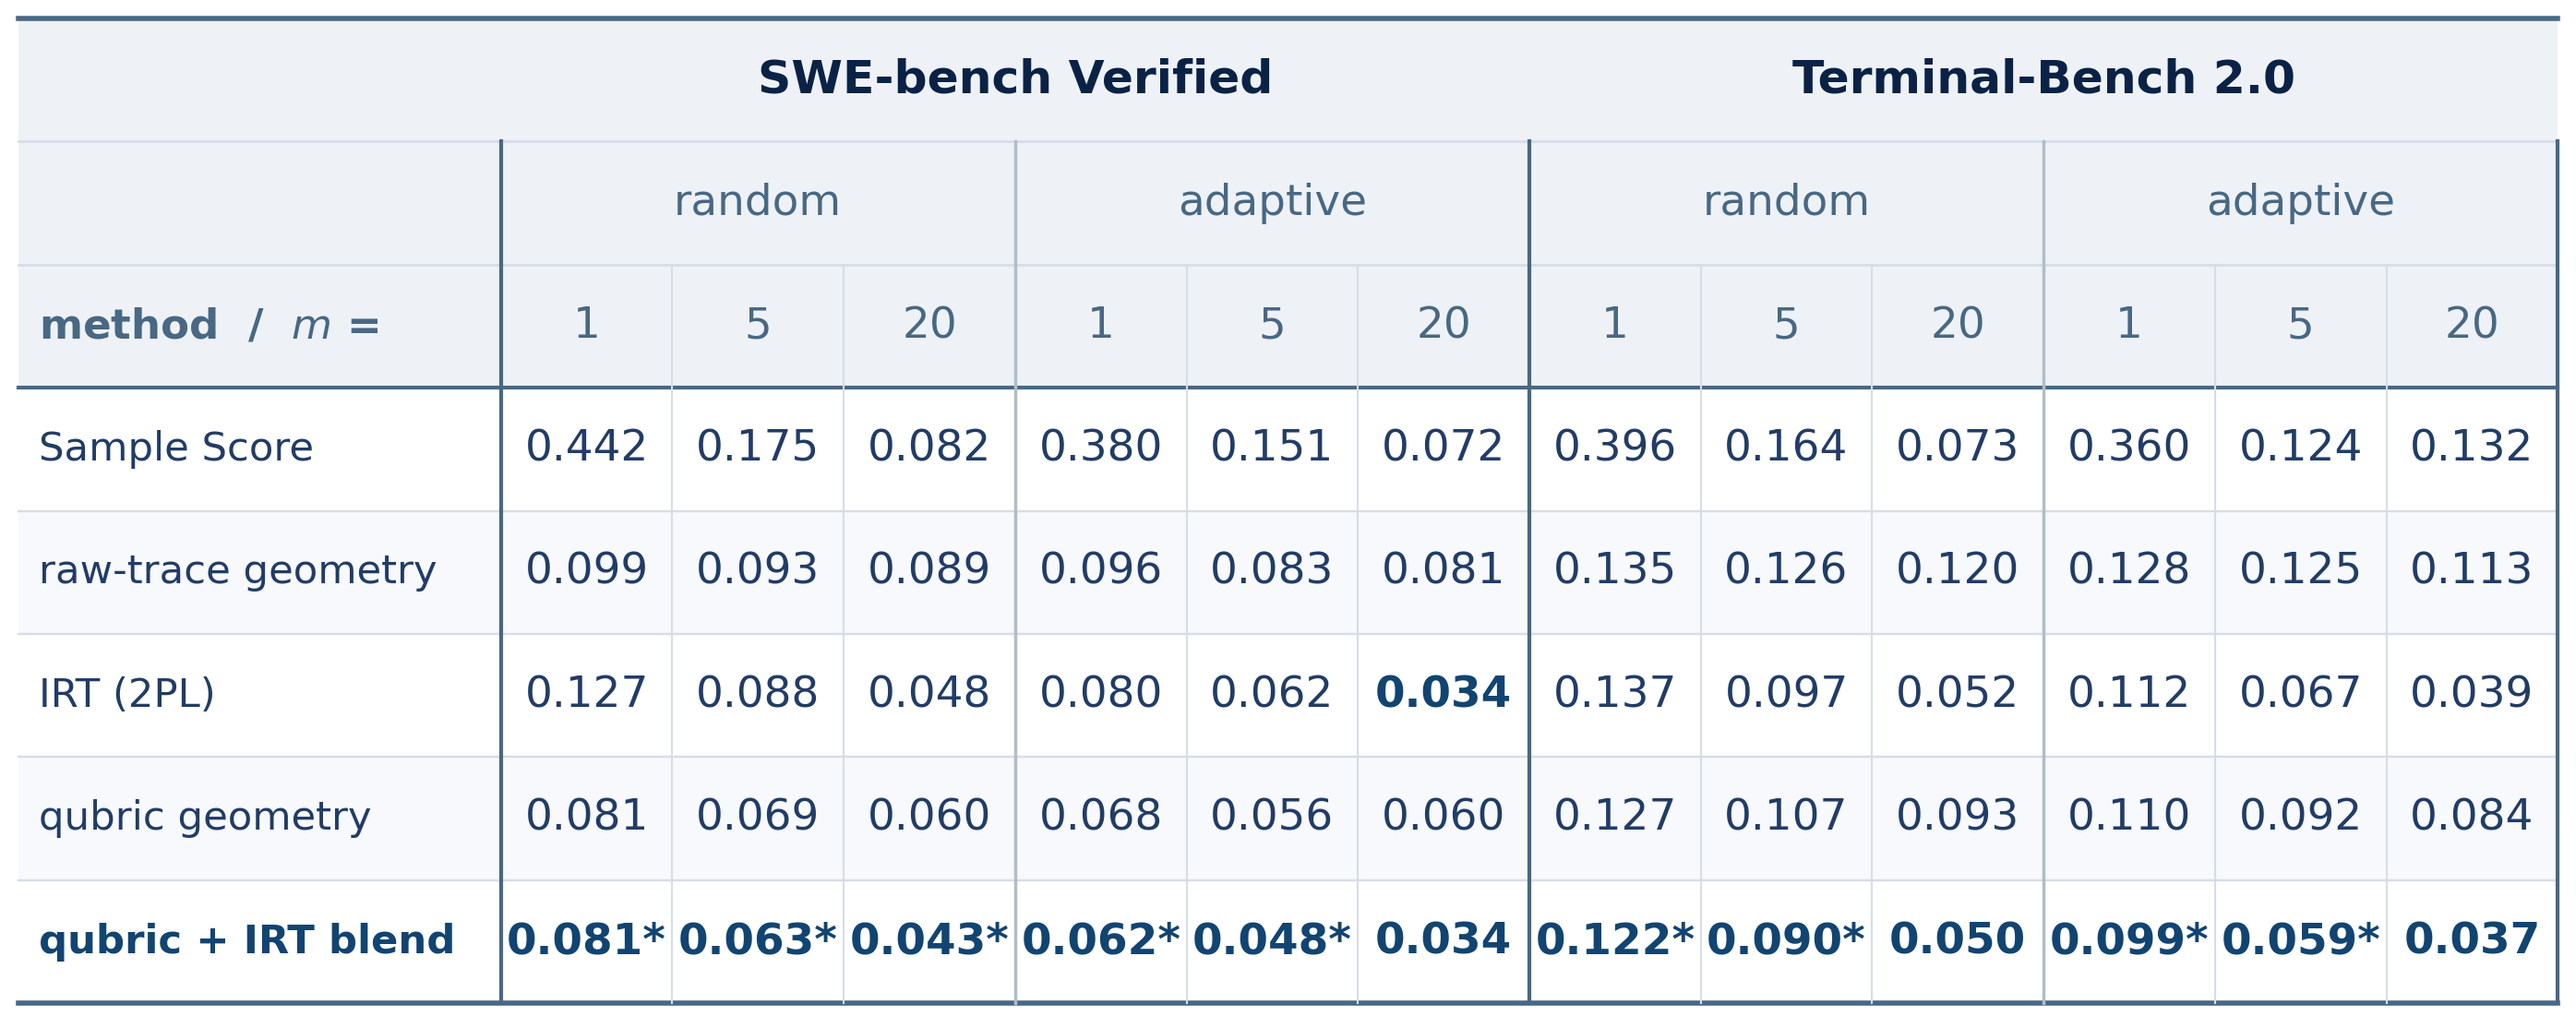
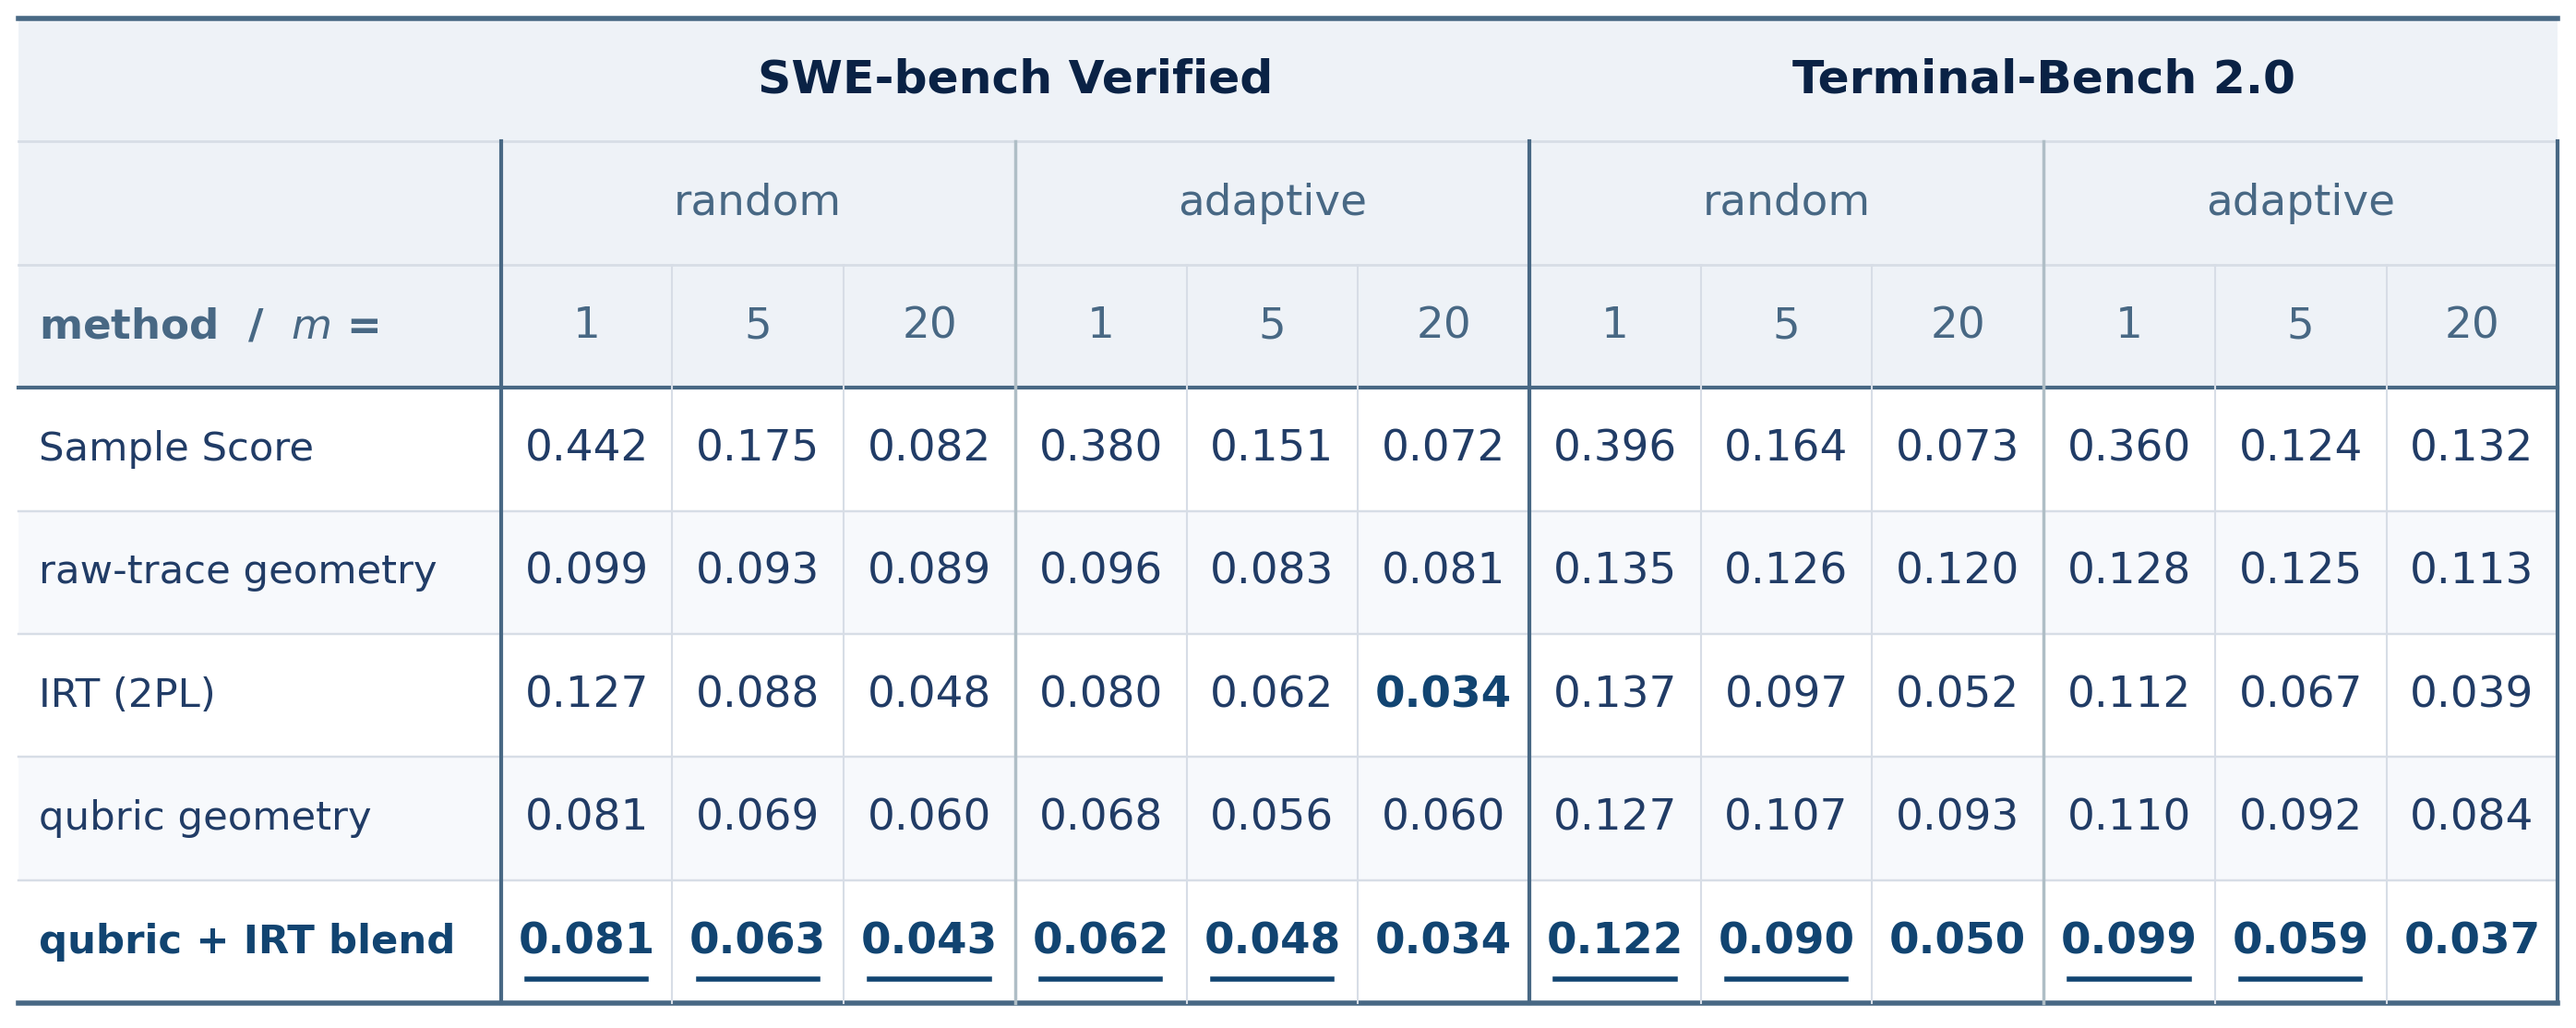
hero table: bold = best, underline = significant (p<0.05 paired)
Claude-Session: https://claude.ai/code/session_01RGusFFXzoPTkSKgzzDLjNv

Changed region(s): [[0.187, 0.8851, 0.5299, 0.9767], [0.7793, 0.8851, 0.9351, 0.9767], [0.5923, 0.8851, 0.7169, 0.9767]]

diff --git a/scripts/hero_table.py b/scripts/hero_table.py
@@ -75,7 +75,7 @@ def build_md(t):
                     best = min(vals.values())
                     s = fmt(vals[key], abs(vals[key] - best) < 5e-4)
                     if key == 'blend' and star:
-                        s += '*'
+                        s = f'<u>{s}</u>'
                     row.append(s)
         lines.append('| ' + ' | '.join(row) + ' |')
     return '\n'.join(lines)
@@ -108,7 +108,8 @@ def build_tex(t):
                     if abs(v - best) < 5e-4:
                         s = r'\bfseries ' + s
                     if key == 'blend' and star:
-                        s += r'\rlap{$^{*}$}'
+                        s = r'{\underline{' + s.replace(
+                            r'\bfseries ', r'\bfseries\ ') + '}}'
                     cells.append(s)
         out.append(label.replace('+', '$+$') + ' & '
                    + ' & '.join(cells) + r' \\')
@@ -181,12 +182,16 @@ def build_png(t):
                     v = vals[key]
                     isbest = abs(v - best) < 5e-4
                     s = f'{v:.3f}'
-                    if key == 'blend' and star:
-                        s += '*'
+                    col = (hv_style.ROLES['anchor']['color'] if isbest
+                           else hv_style.INK)
                     cell((xs[j] + xs[j + 1]) / 2, cy, s,
-                         'bold' if isbest else 'normal',
-                         hv_style.ROLES['anchor']['color'] if isbest
-                         else hv_style.INK, 13.5)
+                         'bold' if isbest else 'normal', col, 13.5)
+                    if key == 'blend' and star:
+                        cxm = (xs[j] + xs[j + 1]) / 2
+                        ax.plot([cxm - .0235, cxm + .0235],
+                                [cy - row_h * .30] * 2, color=col, lw=1.6,
+                                transform=ax.transAxes, clip_on=False,
+                                zorder=4)
                     j += 1
 
     # rules: horizontal

diff --git a/notes/tables_hero.tex b/notes/tables_hero.tex
@@ -12,7 +12,7 @@ Sample Score & 0.442 & 0.175 & 0.082 & 0.380 & 0.151 & 0.072 & 0.396 & 0.164 & 0
 raw-trace geometry & 0.099 & 0.093 & 0.089 & 0.096 & 0.083 & 0.081 & 0.135 & 0.126 & 0.120 & 0.128 & 0.125 & 0.113 \\
 IRT (2PL) & 0.127 & 0.088 & 0.048 & 0.080 & 0.062 & \bfseries 0.034 & 0.137 & 0.097 & 0.052 & 0.112 & 0.067 & 0.039 \\
 qubric geometry & 0.081 & 0.069 & 0.060 & 0.068 & 0.056 & 0.060 & 0.127 & 0.107 & 0.093 & 0.110 & 0.092 & 0.084 \\
-qubric $+$ IRT blend & \bfseries 0.081\rlap{$^{*}$} & \bfseries 0.063\rlap{$^{*}$} & \bfseries 0.043\rlap{$^{*}$} & \bfseries 0.062\rlap{$^{*}$} & \bfseries 0.048\rlap{$^{*}$} & \bfseries 0.034 & \bfseries 0.122\rlap{$^{*}$} & \bfseries 0.090\rlap{$^{*}$} & \bfseries 0.050 & \bfseries 0.099\rlap{$^{*}$} & \bfseries 0.059\rlap{$^{*}$} & \bfseries 0.037 \\
+qubric $+$ IRT blend & {\underline{\bfseries\ 0.081}} & {\underline{\bfseries\ 0.063}} & {\underline{\bfseries\ 0.043}} & {\underline{\bfseries\ 0.062}} & {\underline{\bfseries\ 0.048}} & \bfseries 0.034 & {\underline{\bfseries\ 0.122}} & {\underline{\bfseries\ 0.090}} & \bfseries 0.050 & {\underline{\bfseries\ 0.099}} & {\underline{\bfseries\ 0.059}} & \bfseries 0.037 \\
 \bottomrule
 \end{tabular}}
 }

diff --git a/figures/hero_table.md b/figures/hero_table.md
@@ -4,4 +4,4 @@
 | raw-trace geometry | 0.099 | 0.093 | 0.089 | 0.096 | 0.083 | 0.081 | 0.135 | 0.126 | 0.120 | 0.128 | 0.125 | 0.113 |
 | IRT (2PL) | 0.127 | 0.088 | 0.048 | 0.080 | 0.062 | **0.034** | 0.137 | 0.097 | 0.052 | 0.112 | 0.067 | 0.039 |
 | qubric geometry | 0.081 | 0.069 | 0.060 | 0.068 | 0.056 | 0.060 | 0.127 | 0.107 | 0.093 | 0.110 | 0.092 | 0.084 |
-| qubric + IRT blend | **0.081*** | **0.063*** | **0.043*** | **0.062*** | **0.048*** | **0.034** | **0.122*** | **0.090*** | **0.050** | **0.099*** | **0.059*** | **0.037** |
+| qubric + IRT blend | <u>**0.081**</u> | <u>**0.063**</u> | <u>**0.043**</u> | <u>**0.062**</u> | <u>**0.048**</u> | **0.034** | <u>**0.122**</u> | <u>**0.090**</u> | **0.050** | <u>**0.099**</u> | <u>**0.059**</u> | **0.037** |
